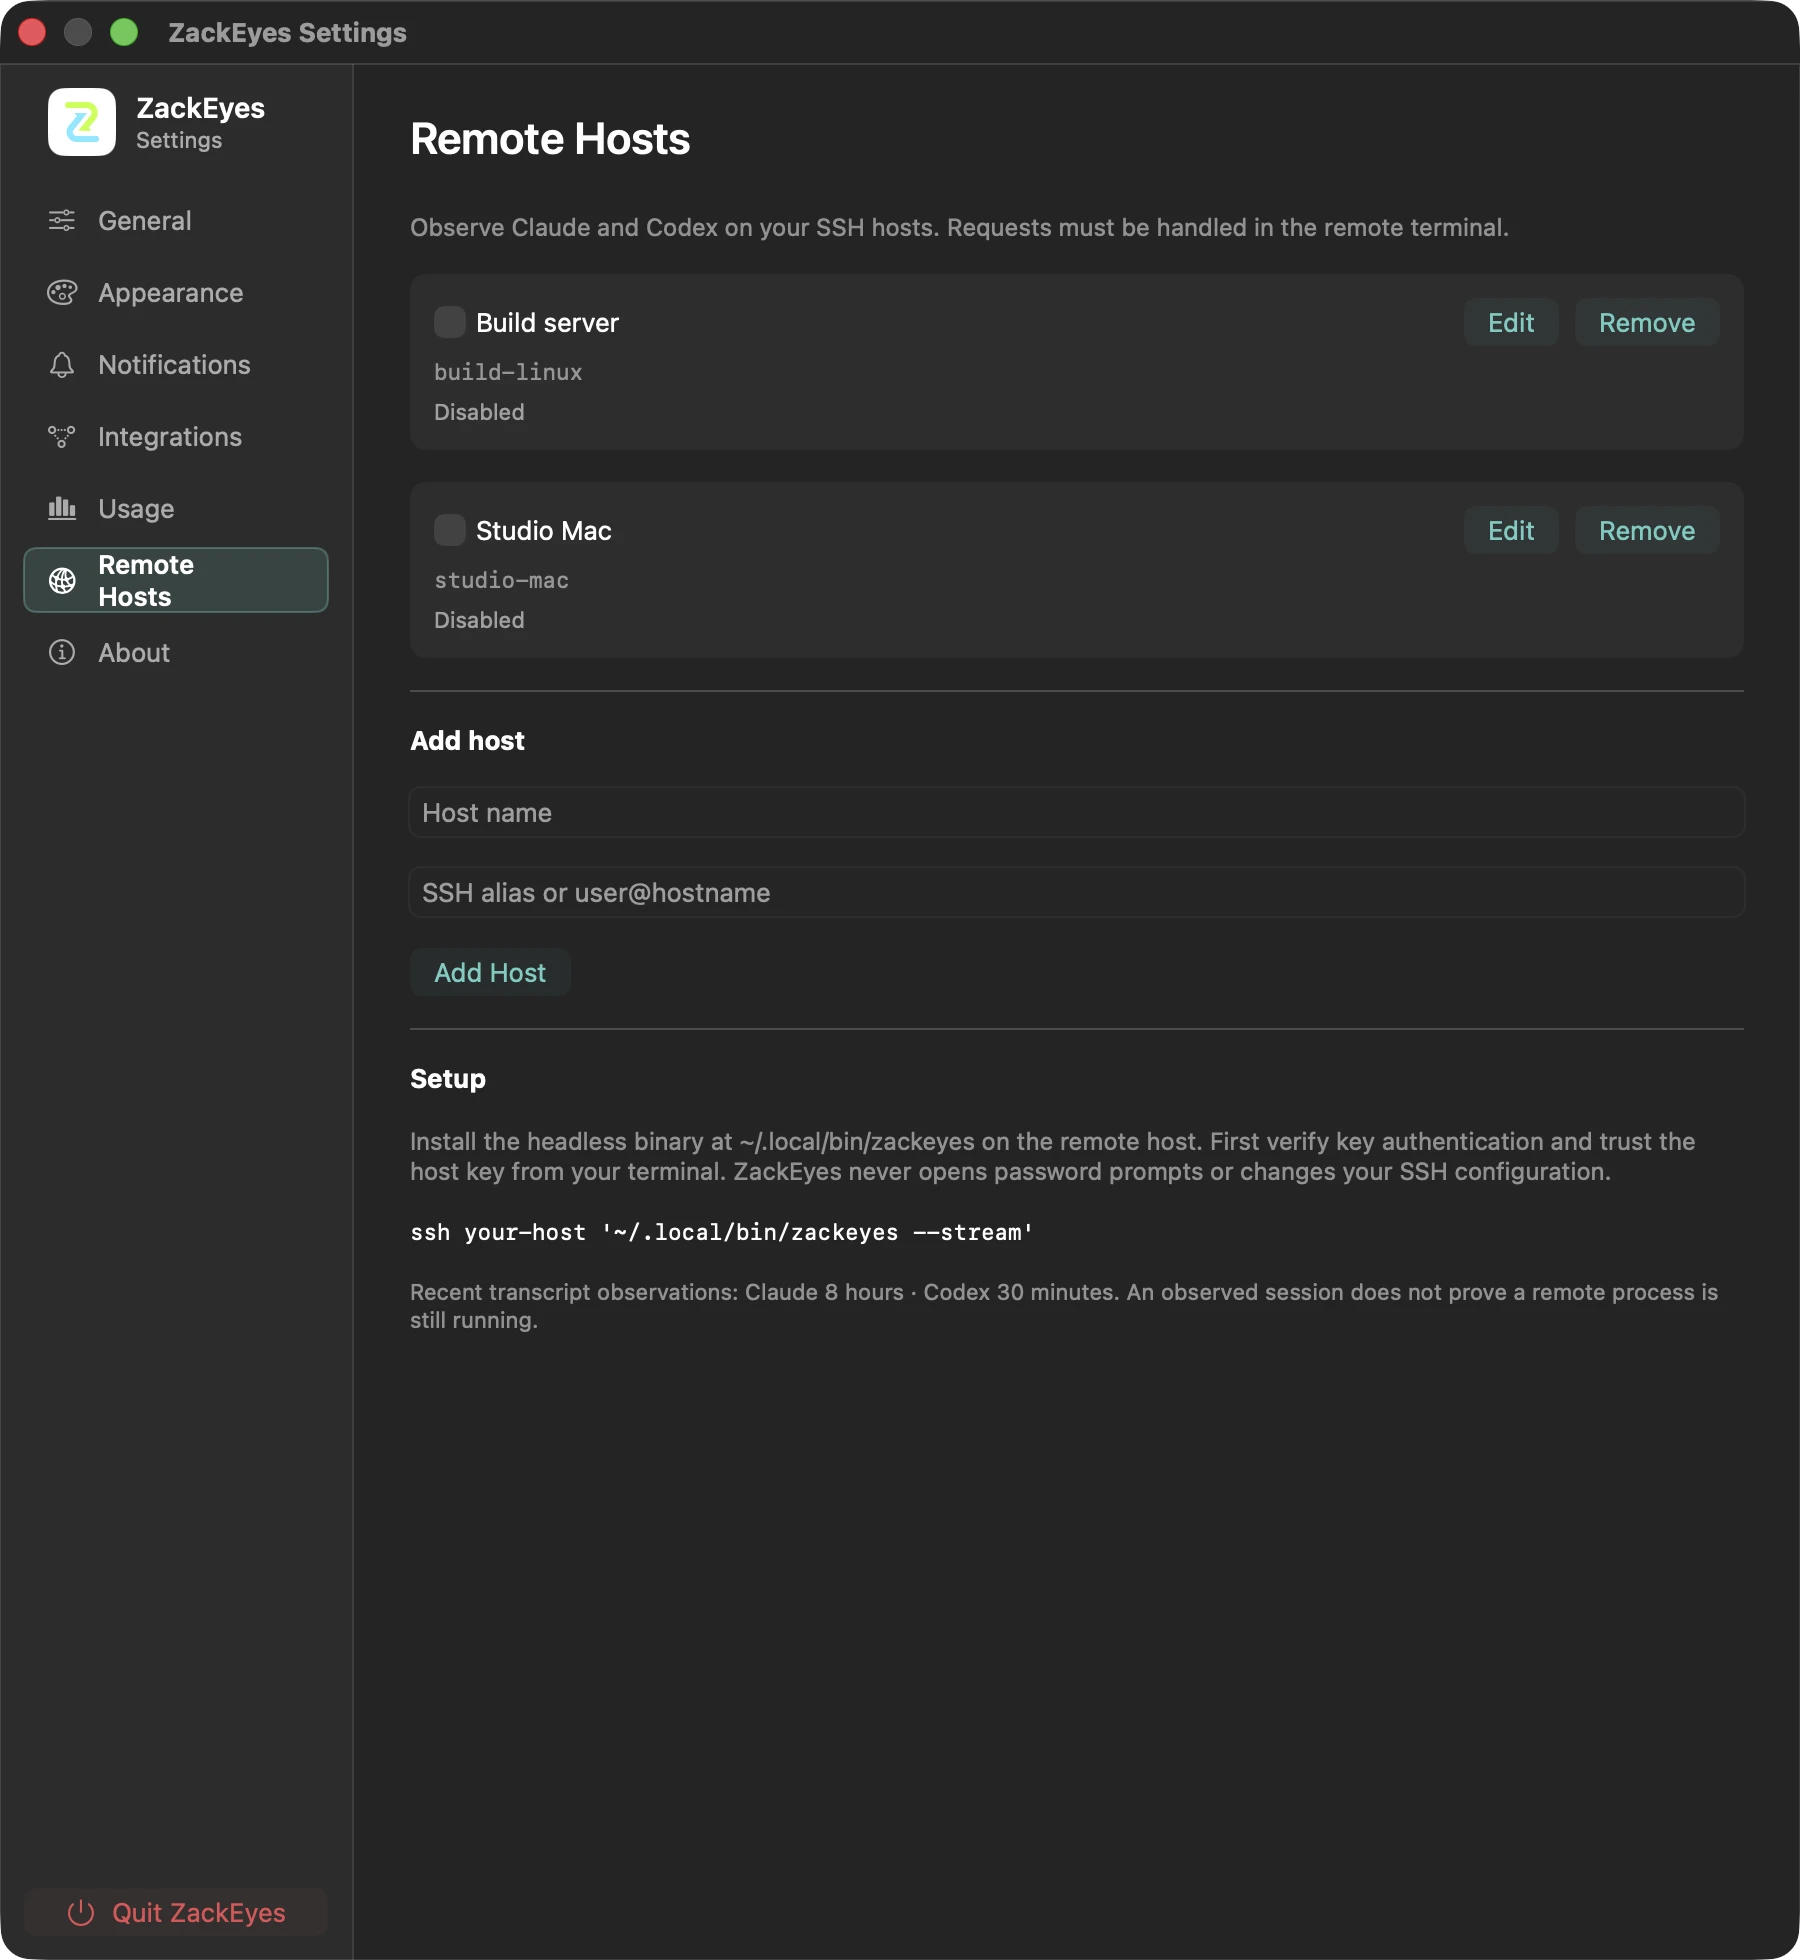
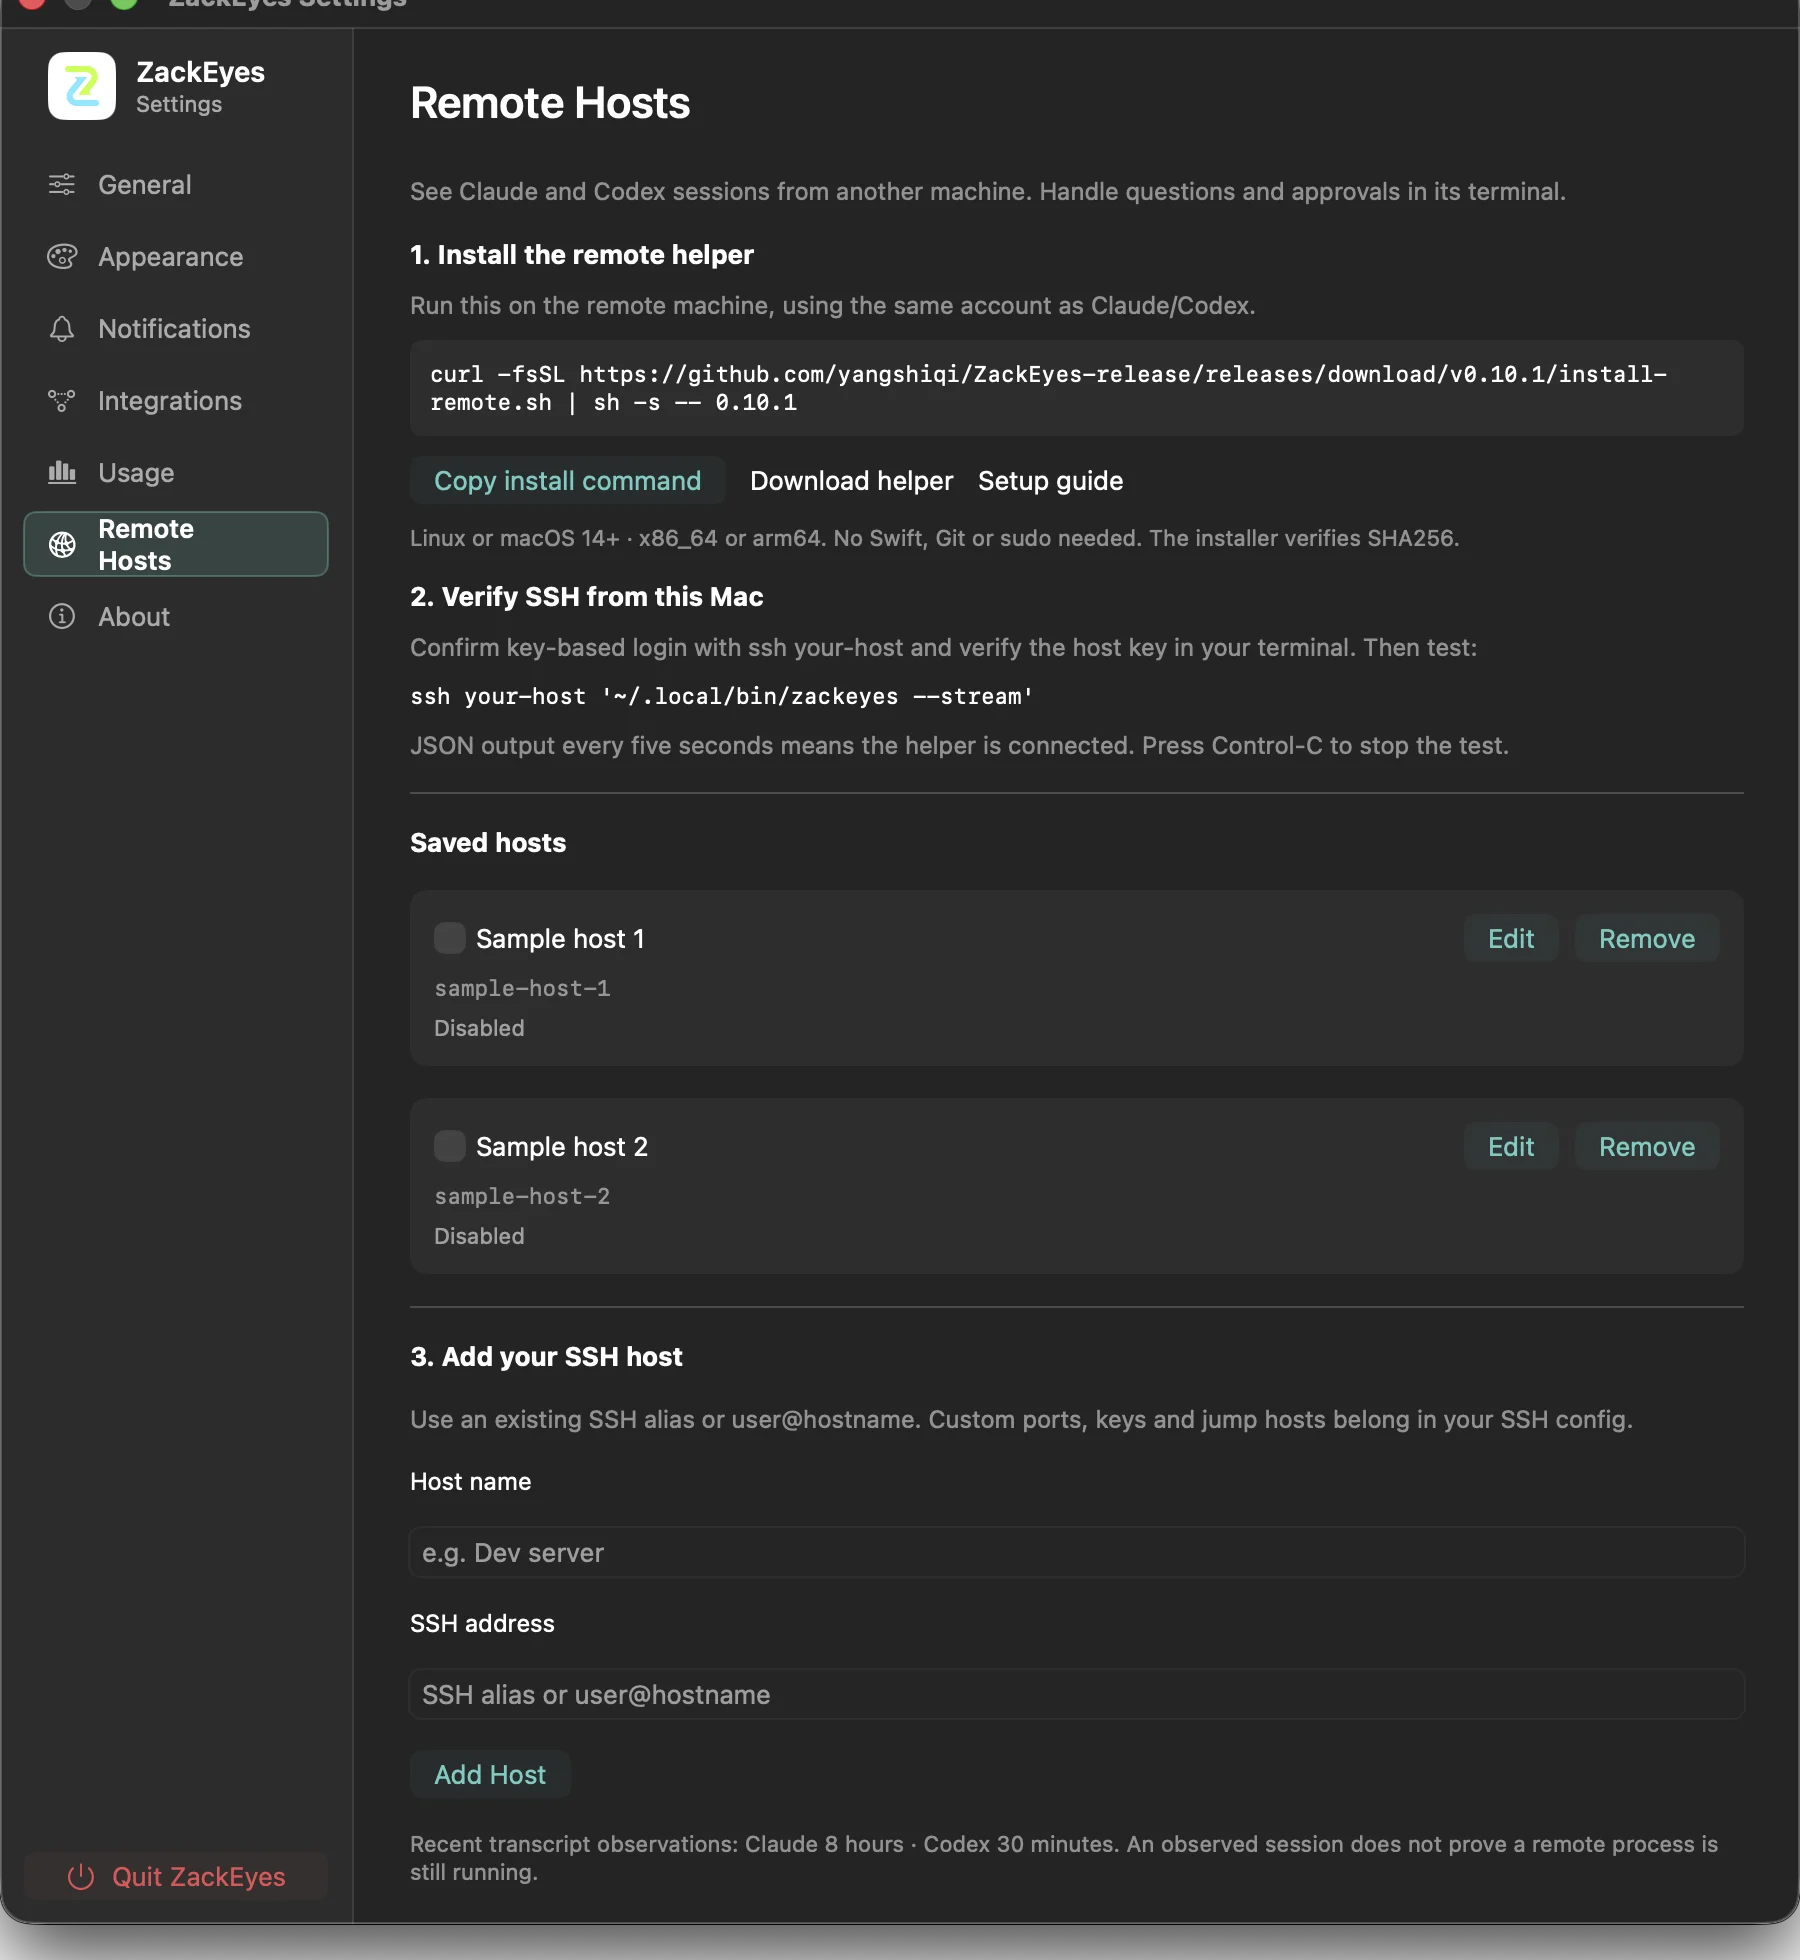
chore(website): stage v0.10.1 metadata and SSH guide screenshot

diff --git a/docs/releases/v0.10.1-preparation.md b/docs/releases/v0.10.1-preparation.md
@@ -17,3 +17,14 @@ Settings → Remote Hosts starts with three steps: install the helper on the rem
 - Preview captures: `/tmp/zackeyes-ssh-guide-720.png` and `/tmp/zackeyes-ssh-guide-660.png`.
 
 Before publication: finish the v0.10.1 release notes and version/website metadata, run the existing four-platform helper release gate, and complete roadmap/milestone housekeeping after the release. Journal remains a v0.11.0 plan.
+
+
+## Release artifact verification — 2026-10-15
+
[1 lines of base64/hex data omitted]
+
+Fresh full suite passed: 921 Swift Testing tests (two opt-in actual SSH tests skipped) plus 138 XCTest. The release app passed native URL/copy/feedback/clipboard-restoration checks at default and minimum window sizes, and the labeled host form remained reachable by scrolling. User settings/hooks/launcher hashes were unchanged. The website SSH screenshot was captured from the actual v0.10.1 release app with two disabled sample hosts; no connection was attempted.
+
+[Four-platform release build 38698594595](https://github.com/yangshiqi/ZackEyes/actions/runs/38698594595) passed native builds, executable/protocol/termination checks, fully static Linux dependency checks and clean Alpine execution without Swift. The release-fetch gate downloaded the complete bundle and verified source SHA, version, architecture and SHA256 for every platform.
+
+Logs: `/tmp/zackeyes-v0101-tests.log`, `/tmp/zackeyes-v0101-build.log`, `/tmp/zackeyes-v0101-artifact-verification.log`, `/tmp/zackeyes-v0101-native.log`, `/tmp/zackeyes-v0101-helpers.log`, `/tmp/zackeyes-v0101-site.log`.

diff --git a/website/README.md b/website/README.md
@@ -32,9 +32,9 @@ The homepage currently uses no React island and no generated client JavaScript b
 - pnpm 10.28.2 is the pinned package manager, declared in `package.json`.
 - The production target must support static file hosting.
 - The canonical production origin is `https://zackeyes.vercel.app` — the live Vercel deployment. The originally planned custom apex domain was never registered (see issue #192). If a custom domain is purchased later, update `astro.config.mjs`, `public/robots.txt`, the LLM text endpoints, and the origin pinned in `tests/site-contract.test.mjs`.
-- Latest public release: `https://github.com/yangshiqi/ZackEyes-release/releases/download/v0.10.0/ZackEyes-0.10.0.dmg`.
+- Latest public release: `https://github.com/yangshiqi/ZackEyes-release/releases/download/v0.10.1/ZackEyes-0.10.1.dmg`.
 - DMG size: 6.4 MB.
[2 lines of base64/hex data omitted]
 - Issues and feature requests: `https://github.com/yangshiqi/ZackEyes-release/issues`.
 - Release metadata is centralised in [`src/lib/release.mjs`](src/lib/release.mjs); update that file on each release and every page + test will pick up the new values.
 - `make release` in the ccisland repo triggers the [`bump-version`](.github/workflows/bump-version.yml) workflow here via `gh workflow run`, which rewrites `src/lib/release.mjs` with the new DMG metadata and opens a PR. The PR is intentionally not auto-merged so a changelog entry can be added by hand on the same branch.
